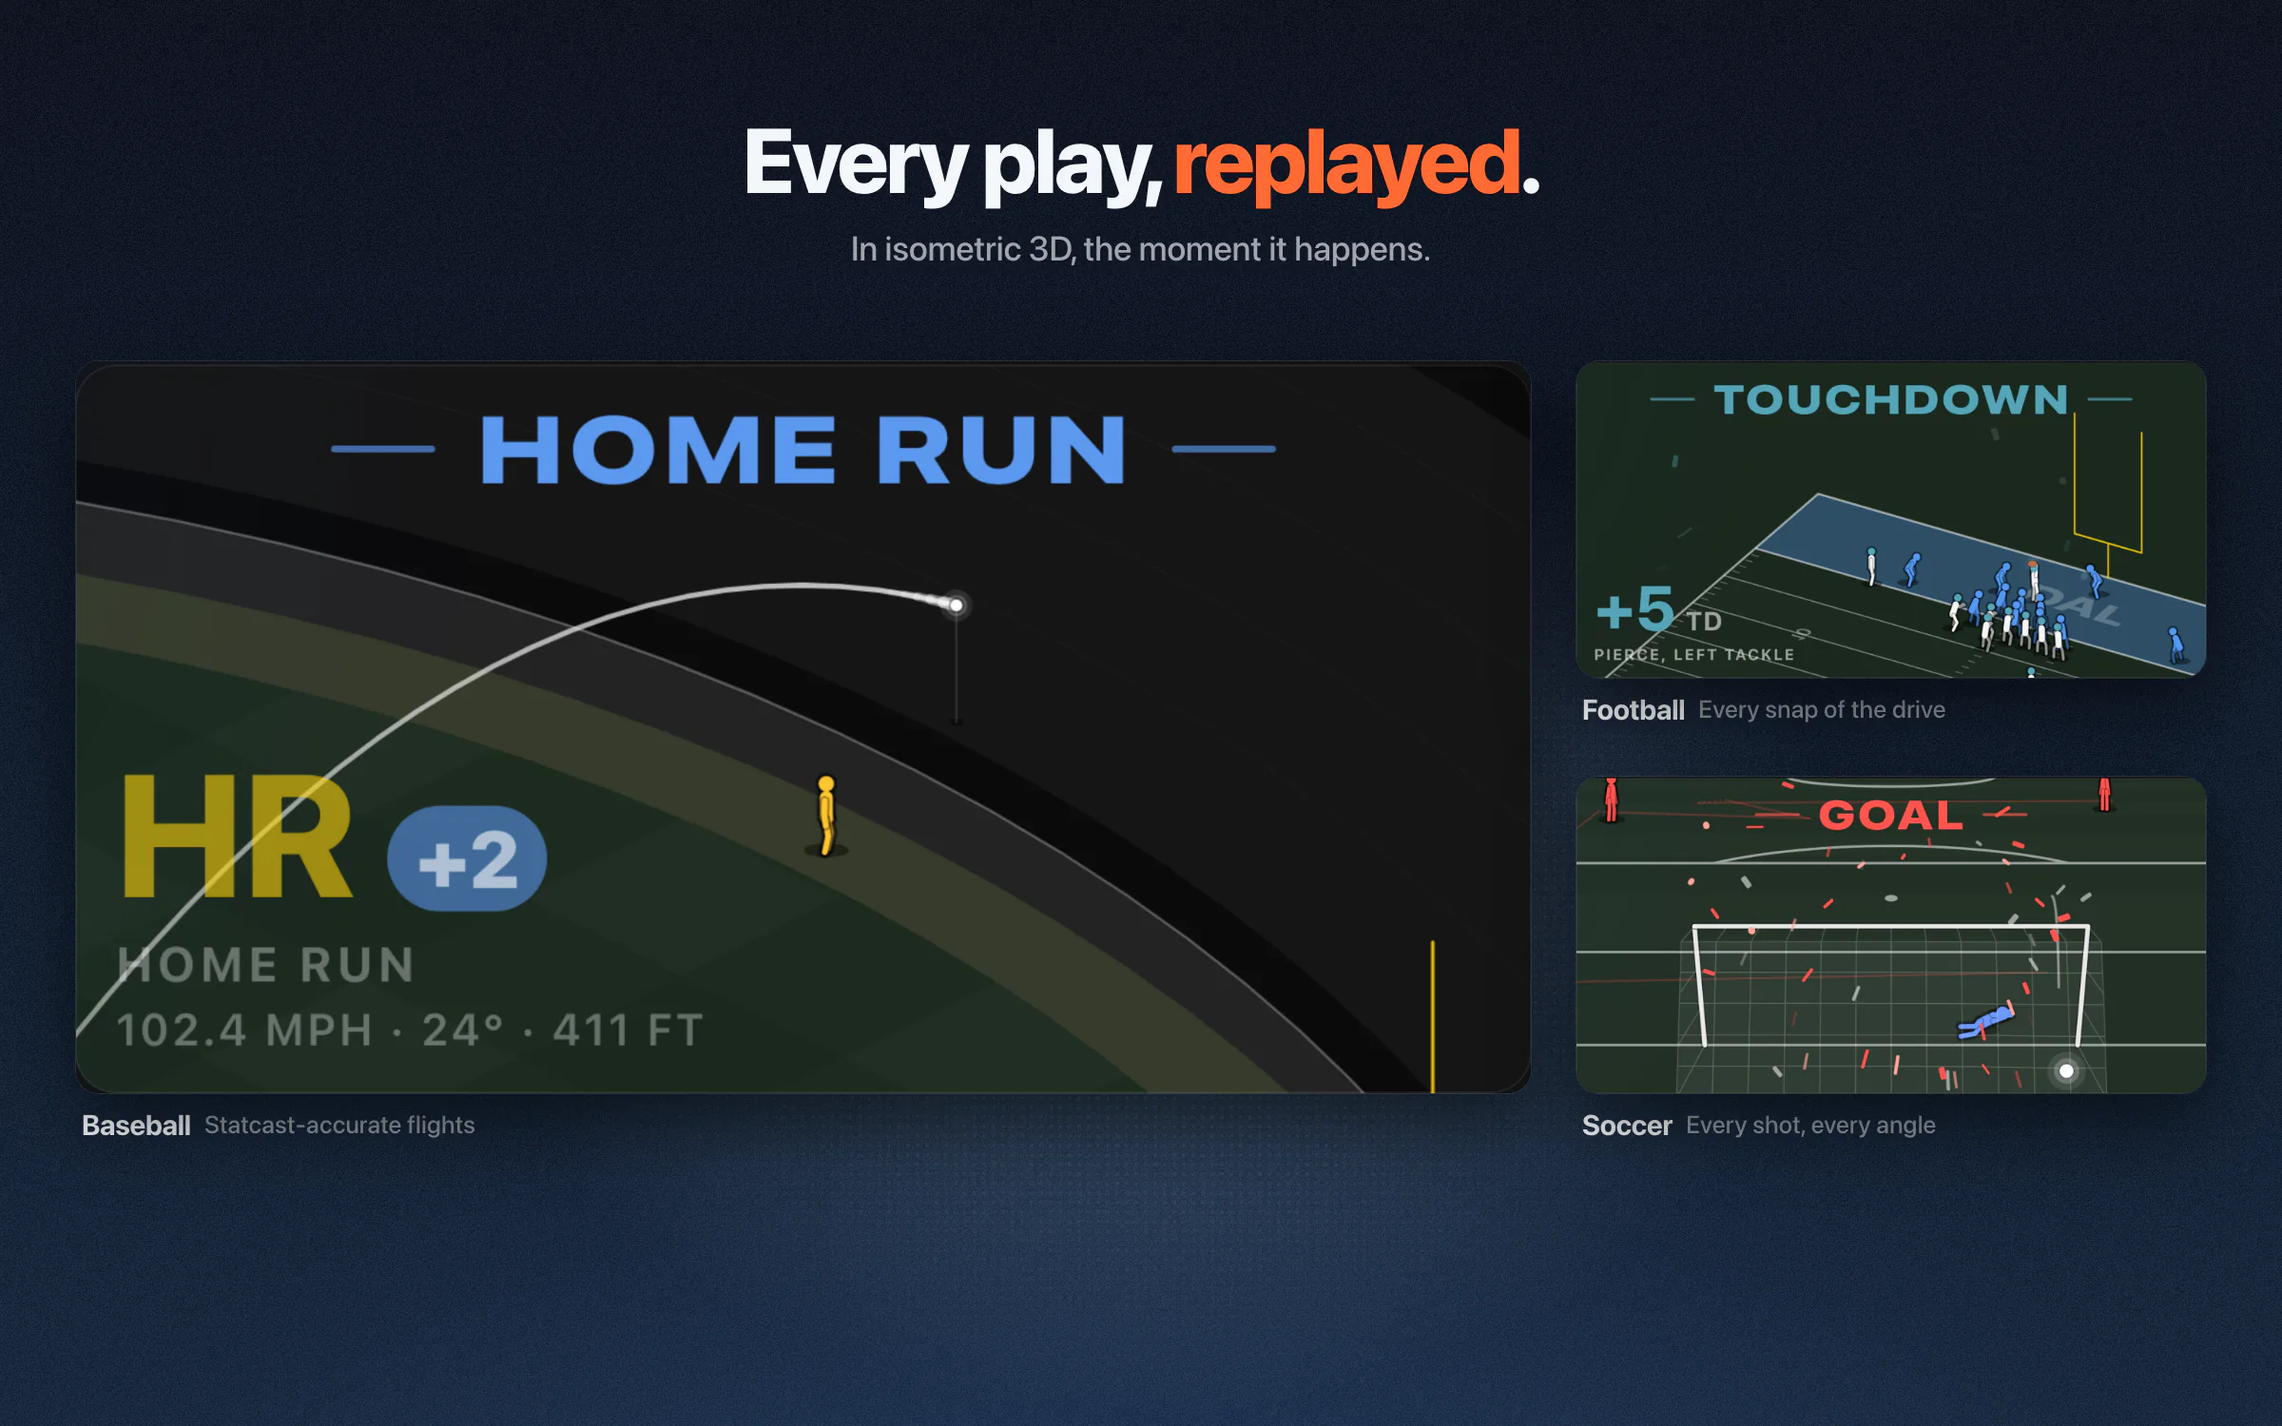
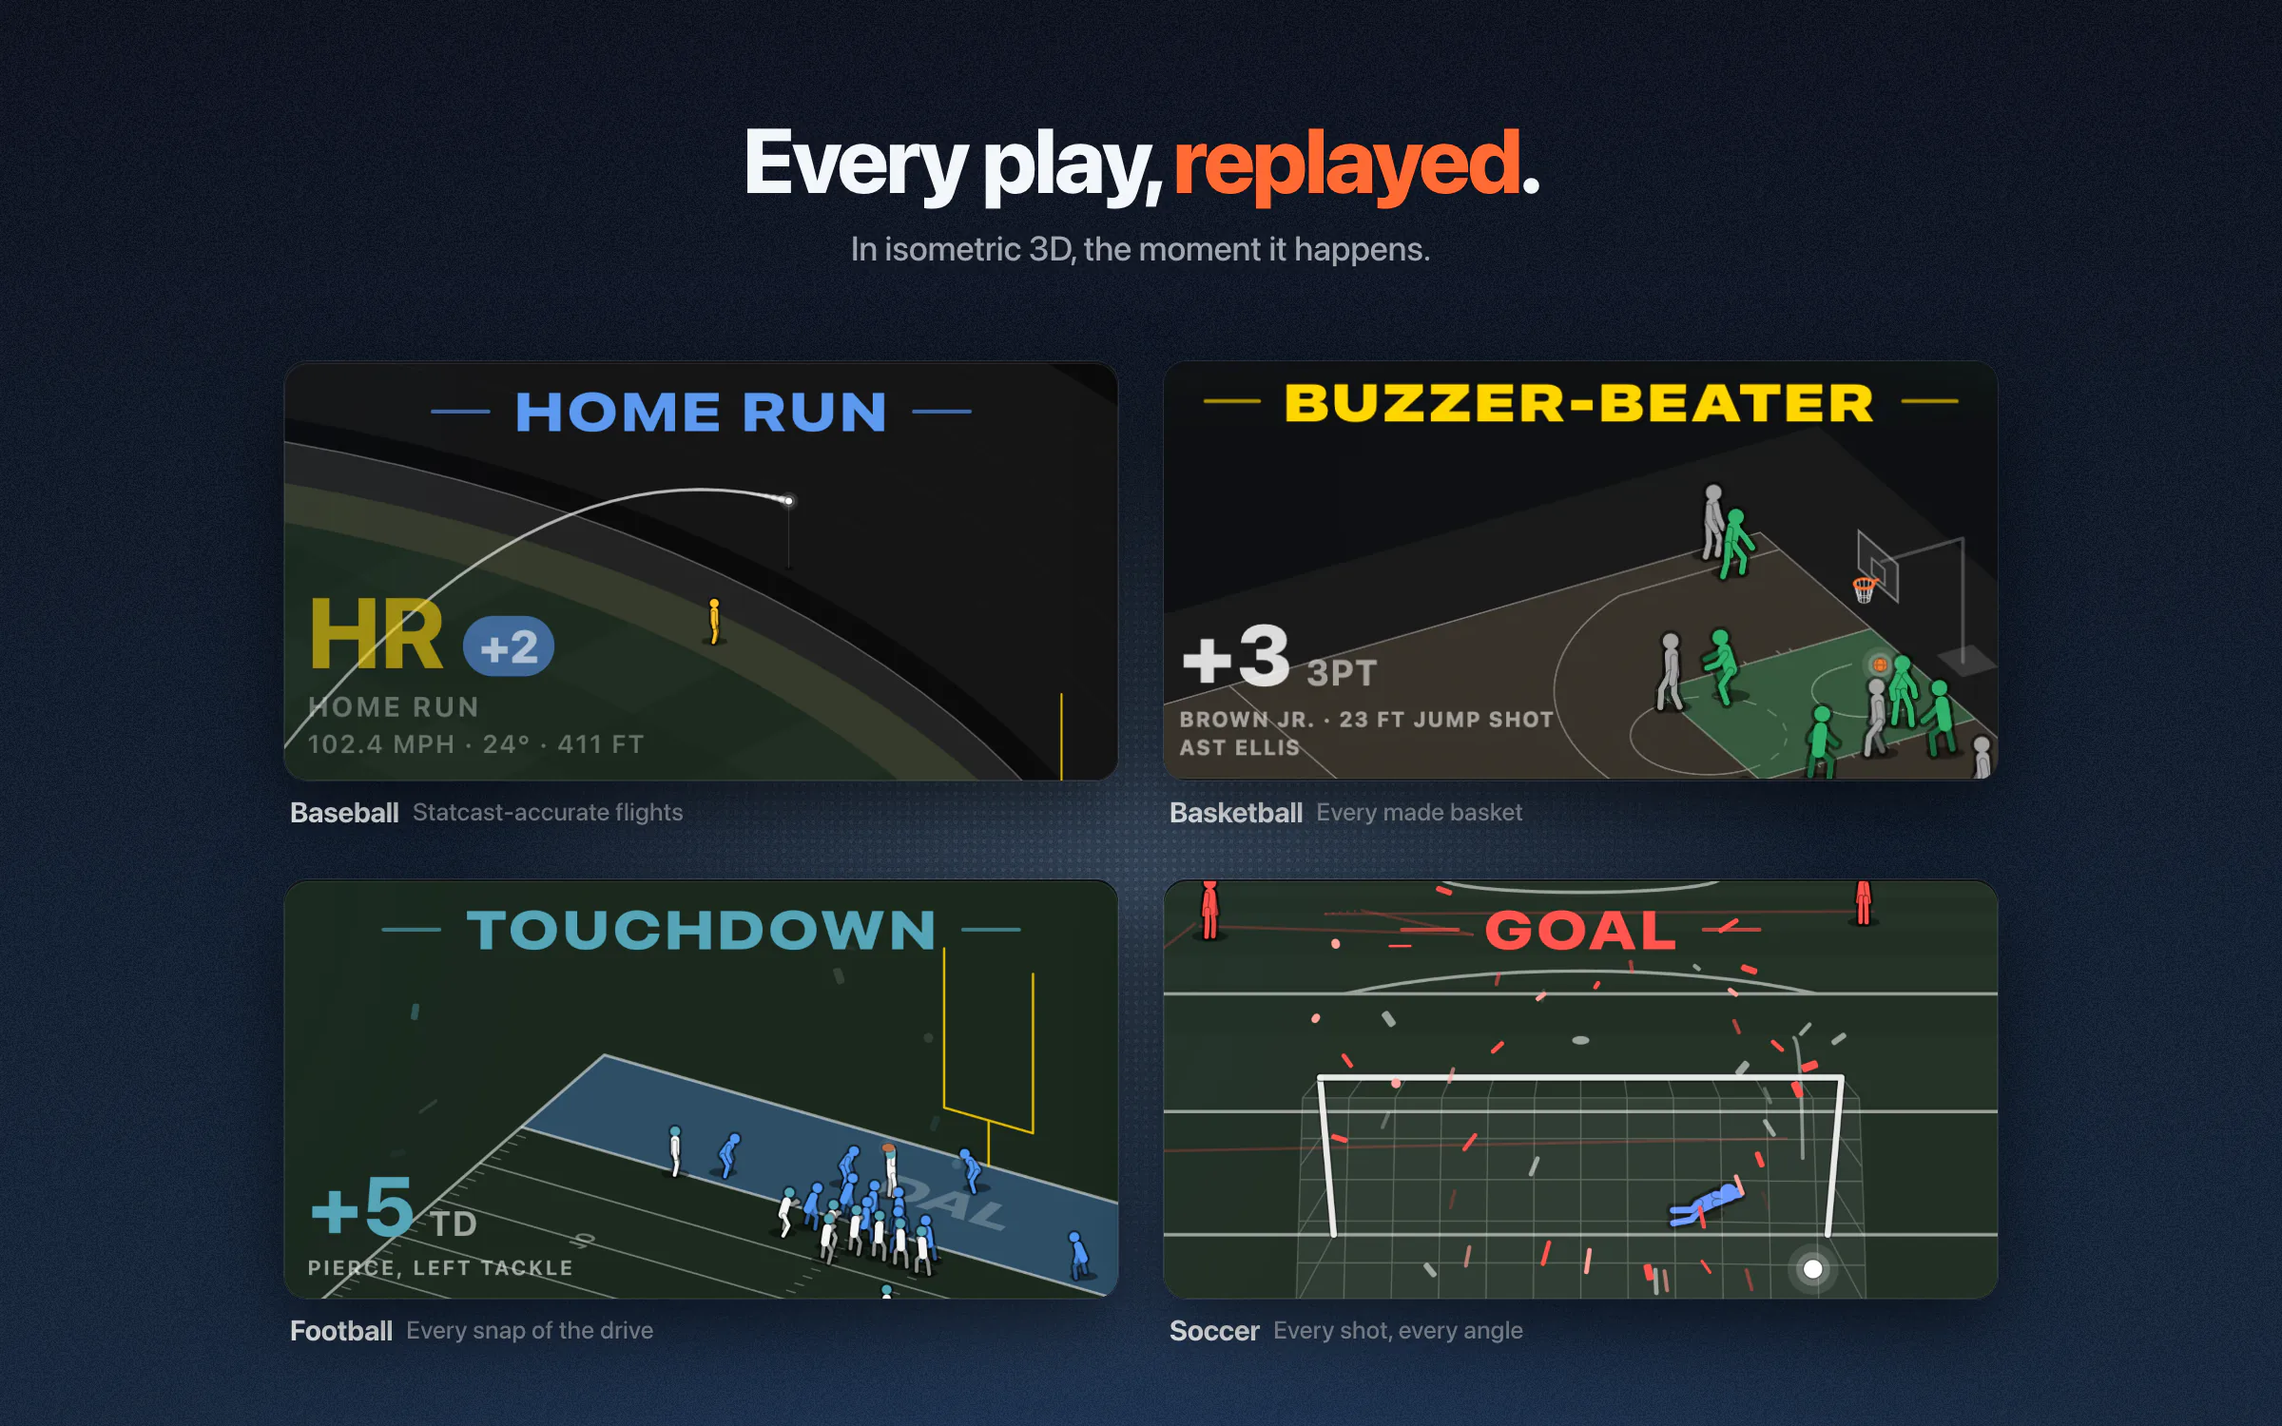
README: the Mac app's shots, slot by slot, and basketball's isometric view
Every README picture is now a slot that readme-gallery.mjs fills with the
first option whose images exist in light and dark: the Mac app's renders
(carried over from the Mac pipeline by compose.mjs) where they've landed,
the web's otherwise, or nothing. The hero, the menu bar close-up and the
football and soccer pages are the Mac app's now. The isometric views image
is four sports, two by two, with the Mac app's buzzer-beater cut in for
basketball, which the web doesn't have yet. compose.mjs starts its
browser only when it renders, so carrying the Mac images over needs none.

Claude-Session: https://claude.ai/code/session_018S3HquSibFAw8QwmugU4Um

Changed region(s): [[0.0312, 0.2453, 0.9688, 0.9507]]

diff --git a/README.md b/README.md
@@ -22,11 +22,11 @@
   <a href="https://scoreline-web.lame-o.workers.dev"><picture><source media="(prefers-color-scheme: dark)" srcset="docs/buttons/try-web-dark.png"><img src="docs/buttons/try-web-light.png" height="52" alt="Try it on the web"></picture></a>
 </p>
 
-<!-- hero:start -->
+<!-- slot:hero:start -->
 <p align="center">
-  <picture><source media="(prefers-color-scheme: dark)" srcset="docs/screenshots/web/scores-dark.webp"><img src="docs/screenshots/web/scores-light.webp" width="100%" alt="Scoreline: every live game in the sidebar, beside a live NBA game's shot chart and box score"></picture>
+  <picture><source media="(prefers-color-scheme: dark)" srcset="docs/screenshots/mac/hero-dark.webp"><img src="docs/screenshots/mac/hero-light.webp" width="100%" alt="Scoreline's panel open under the Mac menu bar: a live World Series game, its home run replayed in the isometric view"></picture>
 </p>
-<!-- hero:end -->
+<!-- slot:hero:end -->
 
 <!-- Animated preview: drop the loop in as docs/screenshots/readme-loop.webp and uncomment.
 <p align="center"><img src="docs/screenshots/readme-loop.webp" width="100%" alt="Scoreline in motion: a live game, its play replayed, the score changing"></p>
@@ -36,146 +36,117 @@ Scoreline is a free, native menu bar app for macOS. Pick your leagues and teams 
 
 **MLB · NFL · College Football · NBA · WNBA · Premier League · Champions League · Europa League · LaLiga · Serie A · Bundesliga · Ligue 1 · Championship · MLS · FIFA World Cup · Counter-Strike 2 · World Climbing Series**
 
-<br>
+<!-- slot:menubar:start -->
+<p align="center">
+  <picture><source media="(prefers-color-scheme: dark)" srcset="docs/screenshots/mac/menubar-dark.webp"><img src="docs/screenshots/mac/menubar-light.webp" width="100%" alt="The menu bar, close up: Scoreline's item with a live score, MIL 3–2 TB, Top 12th"></picture>
+</p>
+<!-- slot:menubar:end -->
 
 ## Isometric views
 
 Every play comes back to life in a small isometric view the moment it happens: the swing and the throw in baseball, every made basket in basketball, the snap and the run in football, the cross and the header in soccer. Batted balls fly on Statcast's own launch angle, exit velocity and distance, so a 411-foot home run lands where it really did, and the big moments get their call: HOME RUN, TOUCHDOWN, GOAL, BUZZER-BEATER, POSTERIZED, REJECTED.
 
+<!-- slot:isometric:start -->
 <p align="center">
-  <picture>
-    <source media="(prefers-color-scheme: dark)" srcset="docs/screenshots/web/isometric-dark.webp">
-    <img src="docs/screenshots/web/isometric-light.webp" width="100%" alt="Isometric views: a home run on its Statcast flight, a touchdown, and a header into the net">
-  </picture>
+  <picture><source media="(prefers-color-scheme: dark)" srcset="docs/screenshots/web/isometric-dark.webp"><img src="docs/screenshots/web/isometric-light.webp" width="100%" alt="Isometric views: a home run on its Statcast flight, a buzzer-beater three, a touchdown, and a header into the net"></picture>
 </p>
+<!-- slot:isometric:end -->
 
 ## The scoring slide
 
 When a team scores, a bar in its colors slides in from its side of the page: its logo, a headline you can read from across the room (HOME RUN, GRAND SLAM, TOUCHDOWN, GOAL, BUZZER-BEATER, MAP WON) and who and how, straight from the feeds: "Frelick · 408 ft · EV 104.4 mph". It lands at the isometric view's climax, as the ball clears the fence or crosses the line, for runs, touchdowns, goals, the NBA's decisive baskets, CS2 maps and climbing tops.
 
-<!-- image:scoring-slide:start -->
-<!-- image:scoring-slide:end -->
+<!-- slot:scoring-slide:start -->
+<!-- slot:scoring-slide:end -->
 
 ## Live game pages
 
-Each game page is built for its sport, and it's live: charts redraw as plays land, and big moments (a home run, a touchdown, a goal) arrive with a small celebration you can turn down or off.
+Each game page is built for its sport, and it's live: charts redraw as plays land, and big moments arrive with a celebration you can turn down or off.
 
 - **Baseball**: the count and runners, the at-bat pitch by pitch in the strike zone with MLB's pitch names, a spray chart of every ball in play, and the line score.
 - **Football**: the drive on the field, down and distance, the red zone and the two-minute drill, scoring plays and win probability.
 - **Basketball**: the shot chart, the game's flow and scoring runs, leaders, and the full box score.
 - **Soccer**: the live pitch, the shot map, the match timeline, lineups and VAR decisions.
 
+<!-- slot:games:start -->
 <p align="center">
-  <picture>
-    <source media="(prefers-color-scheme: dark)" srcset="docs/screenshots/web/game-mlb-dark.webp">
-    <img src="docs/screenshots/web/game-mlb-light.webp" width="100%" alt="A live World Series game: at the plate, the isometric view of a double, the line score and win probability">
-  </picture>
+  <picture><source media="(prefers-color-scheme: dark)" srcset="docs/screenshots/mac/football-dark.webp"><img src="docs/screenshots/mac/football-light.webp" width="49%" alt="A live NFL game: the touchdown replayed, the drive on the field"></picture>
+  <picture><source media="(prefers-color-scheme: dark)" srcset="docs/screenshots/mac/soccer-dark.webp"><img src="docs/screenshots/mac/soccer-light.webp" width="49%" alt="A live Premier League match: the goal rebuilt, the shot map"></picture>
 </p>
-
-<p align="center">
-  <picture>
-    <source media="(prefers-color-scheme: dark)" srcset="docs/screenshots/web/game-nfl-dark.webp">
-    <img src="docs/screenshots/web/game-nfl-light.webp" width="32%" alt="A live NFL game: the drive on the field">
-  </picture>
-  <picture>
-    <source media="(prefers-color-scheme: dark)" srcset="docs/screenshots/web/game-nba-dark.webp">
-    <img src="docs/screenshots/web/game-nba-light.webp" width="32%" alt="A live NBA game: the shot chart and game flow">
-  </picture>
-  <picture>
-    <source media="(prefers-color-scheme: dark)" srcset="docs/screenshots/web/game-soccer-dark.webp">
-    <img src="docs/screenshots/web/game-soccer-light.webp" width="32%" alt="A live Premier League match: the pitch and the shot map">
-  </picture>
-</p>
+<!-- slot:games:end -->
 
 ## Schedules, standings and brackets
 
 Everything around the game is a click away: every league's schedule and results, a day, a week or a round at a time; tables that move as the goals go in; the college polls; and playoff brackets, from the MLB postseason to every S-tier CS2 event.
 
+<!-- slot:schedules:start -->
 <p align="center">
-  <picture>
-    <source media="(prefers-color-scheme: dark)" srcset="docs/screenshots/web/schedule-dark.webp">
-    <img src="docs/screenshots/web/schedule-light.webp" width="100%" alt="The schedule: today's games across every league">
-  </picture>
+  <picture><source media="(prefers-color-scheme: dark)" srcset="docs/screenshots/web/schedule-dark.webp"><img src="docs/screenshots/web/schedule-light.webp" width="100%" alt="The schedule: today's games across every league"></picture>
 </p>
 
 <p align="center">
-  <picture>
-    <source media="(prefers-color-scheme: dark)" srcset="docs/screenshots/web/standings-dark.webp">
-    <img src="docs/screenshots/web/standings-light.webp" width="49%" alt="The Premier League table">
-  </picture>
-  <picture>
-    <source media="(prefers-color-scheme: dark)" srcset="docs/screenshots/web/bracket-dark.webp">
-    <img src="docs/screenshots/web/bracket-light.webp" width="49%" alt="A CS2 tournament: the Swiss stage and the playoff bracket">
-  </picture>
+  <picture><source media="(prefers-color-scheme: dark)" srcset="docs/screenshots/web/standings-dark.webp"><img src="docs/screenshots/web/standings-light.webp" width="49%" alt="The Premier League table, moving with live scores"></picture>
+  <picture><source media="(prefers-color-scheme: dark)" srcset="docs/screenshots/web/bracket-dark.webp"><img src="docs/screenshots/web/bracket-light.webp" width="49%" alt="A CS2 tournament: the Swiss stage and the playoff bracket"></picture>
 </p>
+<!-- slot:schedules:end -->
 
 ## Team and player pages
 
 Click a name anywhere and its page opens: a team's results, form, schedule, roster and leaders; a player's season, game log and career. A page opens at once with what's already known and fills in as the rest arrives.
 
+<!-- slot:people:start -->
 <p align="center">
-  <picture>
-    <source media="(prefers-color-scheme: dark)" srcset="docs/screenshots/web/team-dark.webp">
-    <img src="docs/screenshots/web/team-light.webp" width="49%" alt="A team page: results, form, the schedule and the roster">
-  </picture>
-  <picture>
-    <source media="(prefers-color-scheme: dark)" srcset="docs/screenshots/web/player-dark.webp">
-    <img src="docs/screenshots/web/player-light.webp" width="49%" alt="A player page: the season, the game log and the career">
-  </picture>
+  <picture><source media="(prefers-color-scheme: dark)" srcset="docs/screenshots/web/team-dark.webp"><img src="docs/screenshots/web/team-light.webp" width="49%" alt="A team page: results, form, the schedule and the roster"></picture>
+  <picture><source media="(prefers-color-scheme: dark)" srcset="docs/screenshots/web/player-dark.webp"><img src="docs/screenshots/web/player-light.webp" width="49%" alt="A player page: the season, the game log and the career"></picture>
 </p>
+<!-- slot:people:end -->
 
 ## Counter-Strike 2 and climbing
 
 **Counter-Strike 2**: the S-tier events, with every map, round and economy swing as it happens, the official streams, and each tournament's bracket. **Climbing**: the World Climbing Series, with the wall and every climber's high point, the live ranking, boulder scorecards and who's up next.
 
+<!-- slot:esports:start -->
 <p align="center">
-  <picture>
-    <source media="(prefers-color-scheme: dark)" srcset="docs/screenshots/web/esports-dark.webp">
-    <img src="docs/screenshots/web/esports-light.webp" width="49%" alt="A live Counter-Strike 2 match: maps, rounds and the economy">
-  </picture>
-  <picture>
-    <source media="(prefers-color-scheme: dark)" srcset="docs/screenshots/web/climbing-dark.webp">
-    <img src="docs/screenshots/web/climbing-light.webp" width="49%" alt="A live climbing final: the wall, high points and the ranking">
-  </picture>
+  <picture><source media="(prefers-color-scheme: dark)" srcset="docs/screenshots/web/esports-dark.webp"><img src="docs/screenshots/web/esports-light.webp" width="49%" alt="A live Counter-Strike 2 match: maps, rounds and the economy"></picture>
+  <picture><source media="(prefers-color-scheme: dark)" srcset="docs/screenshots/web/climbing-dark.webp"><img src="docs/screenshots/web/climbing-light.webp" width="49%" alt="A live climbing final: the wall, high points and the ranking"></picture>
 </p>
+<!-- slot:esports:end -->
 
 ## Made for your teams
 
 - **Follow your teams**: they lead the list, their schedule fills in when there's no game today, and their live score can sit in the menu bar.
 - **Notifications** when your teams start, score and finish.
 - **Where to Watch**: each game's official broadcasters and streams.
-- **List or tiles**, a pinned scorebar for the game you're following, and sections you can reorder or hide.
+- **List or tiles**, a scoreboard that docks at the top as you scroll a game, and sections you can reorder or hide.
 - **Keyboard first**: arrows to move, Return to open, Esc to go back, ⌘R to refresh.
 - **Accessible**: VoiceOver reads scores and statuses as words, Reduce Motion turns movement into fades, and shapes can stand in for color.
 
+<!-- slot:teams:start -->
 <p align="center">
-  <picture>
-    <source media="(prefers-color-scheme: dark)" srcset="docs/screenshots/web/follow-dark.webp">
-    <img src="docs/screenshots/web/follow-light.webp" width="49%" alt="A game's menu: follow either team, show the score in the tab, go to a team's schedule">
-  </picture>
-  <picture>
-    <source media="(prefers-color-scheme: dark)" srcset="docs/screenshots/web/settings-dark.webp">
-    <img src="docs/screenshots/web/settings-light.webp" width="49%" alt="Settings: your teams, your sports and their order, appearance and alerts">
-  </picture>
+  <picture><source media="(prefers-color-scheme: dark)" srcset="docs/screenshots/web/follow-dark.webp"><img src="docs/screenshots/web/follow-light.webp" width="49%" alt="A game's menu: follow either team, show the score in the tab, go to a team's schedule"></picture>
+  <picture><source media="(prefers-color-scheme: dark)" srcset="docs/screenshots/web/settings-dark.webp"><img src="docs/screenshots/web/settings-light.webp" width="49%" alt="Settings: your teams, your sports and their order, appearance and alerts"></picture>
 </p>
+<!-- slot:teams:end -->
 
 ## On the web
 
 Scoreline also runs in any browser at **[scoreline-web.lame-o.workers.dev](https://scoreline-web.lame-o.workers.dev)**: the scores and the live game pages, on a desktop beside the scores, or on your phone, where it installs to the home screen like an app.
 
+<!-- slot:web:start -->
 <p align="center">
-  <picture>
-    <source media="(prefers-color-scheme: dark)" srcset="docs/screenshots/web/phones-dark.webp">
-    <img src="docs/screenshots/web/phones-light.webp" width="100%" alt="Scoreline on two phones: the scores, and a live game">
-  </picture>
+  <picture><source media="(prefers-color-scheme: dark)" srcset="docs/screenshots/web/tiles-dark.webp"><img src="docs/screenshots/web/tiles-light.webp" width="100%" alt="Scoreline in a browser: every live game as tiles, beside a live NFL game"></picture>
 </p>
+
+<p align="center">
+  <picture><source media="(prefers-color-scheme: dark)" srcset="docs/screenshots/web/phones-dark.webp"><img src="docs/screenshots/web/phones-light.webp" width="100%" alt="Scoreline on two phones: the scores, and a live game"></picture>
+</p>
+<!-- slot:web:end -->
 
 ## Every page
 
 Every screen, in your current appearance (light or dark). Full-size 2400×1500 versions of the feature images are in [`docs/screenshots/web/2400`](docs/screenshots/web/2400).
 
 <!-- gallery:mac:start -->
-
 <!-- gallery:mac:end -->
 
 <!-- gallery:web:start -->
